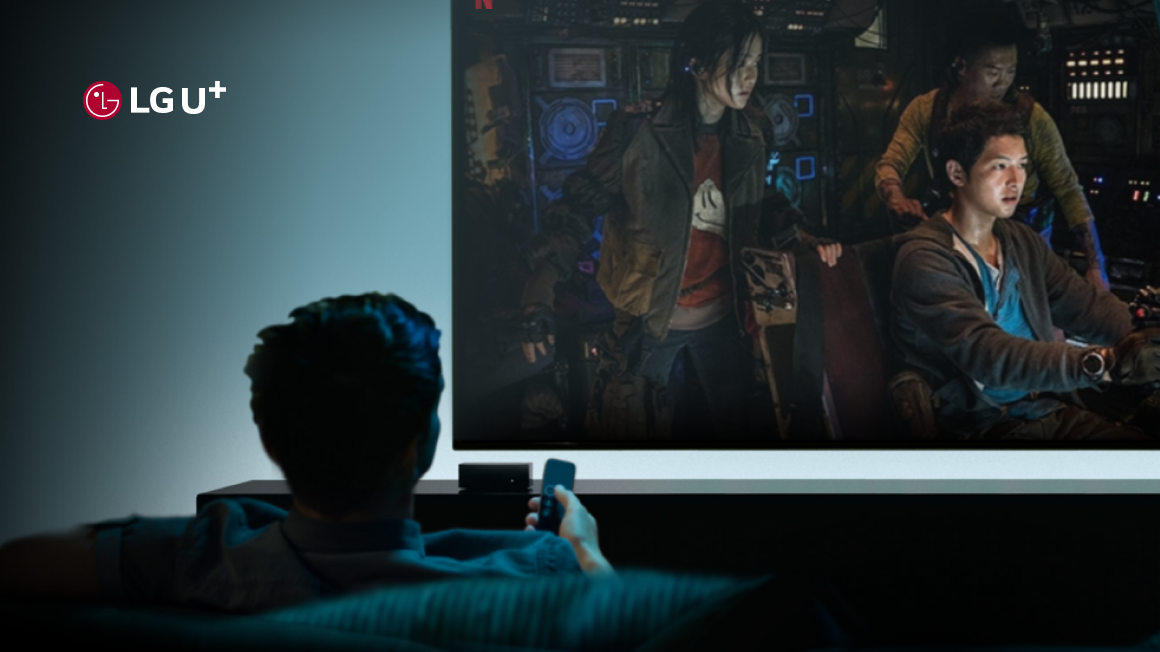
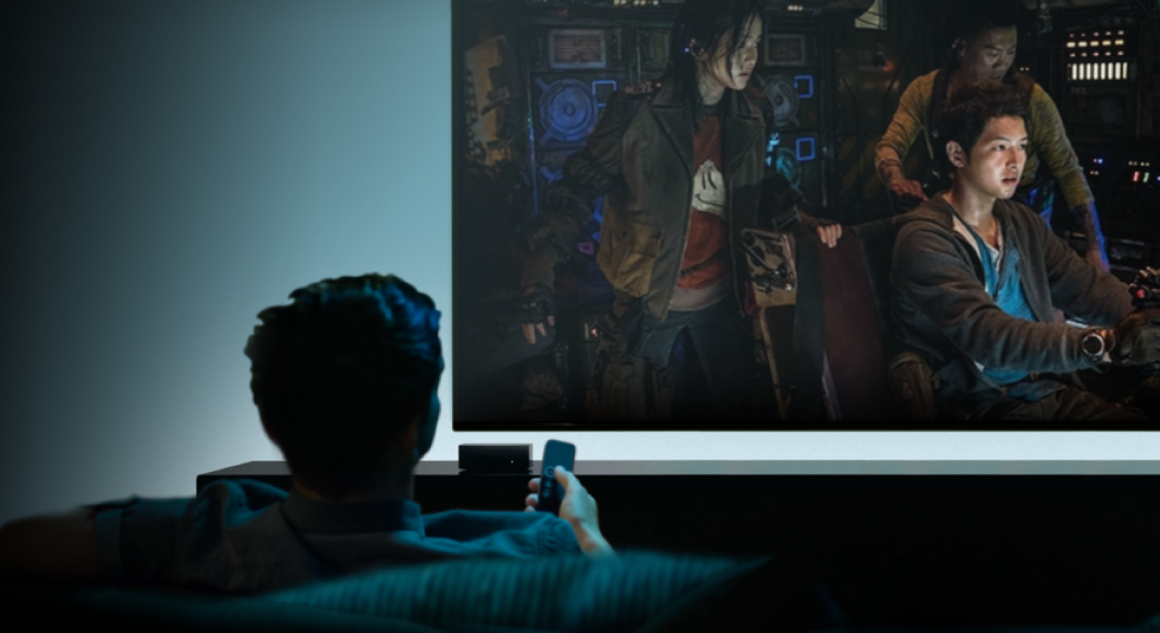
fix header and slider

diff --git a/index.html b/index.html
@@ -83,7 +83,10 @@
                         <div class="single-slider">
                             <a href="#">
                                 <div class="slider-image">
-                                    <img src="./assets/images/home/slide/image1.png" alt="">
+                                    <img class="slide-image-main" src="./assets/images/home/slide/image1.png" alt="">
+                                    <div class="logo">
+                                        <img src="./assets/images/home/slide/logo/logo1.png" alt="">
+                                    </div>
                                 </div>
                                 <div class="slider-text">
                                     <span class="main-text">SK에너지</span>
@@ -94,7 +97,10 @@
                         <div class="single-slider">
                             <a href="#">
                                 <div class="slider-image">
-                                    <img src="./assets/images/home/slide/image2.png" alt="">
+                                    <img class="slide-image-main" src="./assets/images/home/slide/image2.png" alt="">
+                                    <div class="logo">
+                                        <img src="./assets/images/home/slide/logo/logo2.png" alt="">
+                                    </div>
                                 </div>
                                 <div class="slider-text">
                                     <span class="main-text">LG U+</span>
@@ -105,7 +111,10 @@
                         <div class="single-slider">
                             <a href="#">
                                 <div class="slider-image">
-                                    <img src="./assets/images/home/slide/image3.png" alt="">
+                                    <img class="slide-image-main" src="./assets/images/home/slide/image3.png" alt="">
+                                    <div class="logo">
+                                        <img src="./assets/images/home/slide/logo/logo3.png" alt="">
+                                    </div>
                                 </div>
                                 <div class="slider-text">
                                     <span class="main-text">신세계백화점</span>
@@ -116,7 +125,10 @@
                         <div class="single-slider">
                             <a href="#">
                                 <div class="slider-image">
-                                    <img src="./assets/images/home/slide/image4.png" alt="">
+                                    <img class="slide-image-main" src="./assets/images/home/slide/image4.png" alt="">
+                                    <div class="logo">
+                                        <img src="./assets/images/home/slide/logo/logo4.png" alt="">
+                                    </div>
                                 </div>
                                 <div class="slider-text">
                                     <span class="main-text">우아한형제들</span>
@@ -127,7 +139,13 @@
                         <div class="single-slider">
                             <a href="#">
                                 <div class="slider-image">
-                                    <img src="./assets/images/home/slide/image5.png" alt="">
+                                    <img class="slide-image-main" src="./assets/images/home/slide/image5.png" alt="">
+                                    <div class="logo">
+                                        <img src="./assets/images/home/slide/logo/logo5.png" alt="">
+                                    </div>
+                                    <div class="text">
+                                        <img src="./assets/images/home/slide/logo/logo5-1.png" alt="">
+                                    </div>
                                 </div>
                                 <div class="slider-text">
                                     <span class="main-text">현대자동차</span>
@@ -143,47 +161,54 @@
         <div class="brand-wrapper-content">
             <div class="mzd-container">
                 <div class="content-right">
-                    <div id="brand">
+                    <div id="brand-title-wrapper">
                         <div class="brand-title">글로벌 기술 파트너</div>
                         <h3 class="brand-content">메가존.디지털과 함께하는 글로벌 기술력</h3>
                         <h5 class="brand-sub-content">차세대 플랫폼 설계의 필수적 역량을 가진 글로벌 기술 파트너들과 함께 합니다.</h5>
-                        <div class="slider-brand">
-                            <div class="single-brand">
-                                <img src="./assets/images/home/brand/automation.png" alt="">
-                            </div>
-                            <div class="single-brand">
-                                <img src="./assets/images/home/brand/splunk.png" alt="">
-                            </div>
-                            <div class="single-brand">
-                                <img src="./assets/images/home/brand/sumo.png" alt="">
-                            </div>
-                            <div class="single-brand">
-                                <img src="./assets/images/home/brand/googleai.png" alt="">
-                            </div>
-                            <div class="single-brand">
-                                <img src="./assets/images/home/brand/googlebigquery.png" alt="">
-                            </div>
-                            <div class="single-brand">
-                                <img src="./assets/images/home/brand/tableau.png" alt="">
-                            </div>
-                            <div class="single-brand">
-                                <img src="./assets/images/home/brand/aws 1.png" alt="">
-                            </div>
-                            <div class="single-brand">
-                                <img src="./assets/images/home/brand/Akamai 1.png" alt="">
-                            </div>
-                            <div class="single-brand">
-                                <img src="./assets/images/home/brand/googlecloud.png" alt="">
-                            </div>
-                            <div class="single-brand">
-                                <img src="./assets/images/home/brand/gitlab.png" alt="">
-                            </div>
-                            <div class="single-brand">
-                                <img src="./assets/images/home/brand/tencent cloud 1.png" alt="">
-                            </div>
-                            <div class="single-brand">
-                                <img src="./assets/images/home/brand/oracle 1.png" alt="">
-                            </div>
+                    </div>
+                </div>
+            </div>
+        </div>
+
+        <div class="mzd-container full">
+            <div class="content-right">
+                <div id="brand">
+                    <div class="slider-brand">
+                        <div class="single-brand">
+                            <img src="./assets/images/home/brand/automation.png" alt="">
+                        </div>
+                        <div class="single-brand">
+                            <img src="./assets/images/home/brand/splunk.png" alt="">
+                        </div>
+                        <div class="single-brand">
+                            <img src="./assets/images/home/brand/sumo.png" alt="">
+                        </div>
+                        <div class="single-brand">
+                            <img src="./assets/images/home/brand/googleai.png" alt="">
+                        </div>
+                        <div class="single-brand">
+                            <img src="./assets/images/home/brand/googlebigquery.png" alt="">
+                        </div>
+                        <div class="single-brand">
+                            <img src="./assets/images/home/brand/tableau.png" alt="">
+                        </div>
+                        <div class="single-brand">
+                            <img src="./assets/images/home/brand/aws 1.png" alt="">
+                        </div>
+                        <div class="single-brand">
+                            <img src="./assets/images/home/brand/Akamai 1.png" alt="">
+                        </div>
+                        <div class="single-brand">
+                            <img src="./assets/images/home/brand/googlecloud.png" alt="">
+                        </div>
+                        <div class="single-brand">
+                            <img src="./assets/images/home/brand/gitlab.png" alt="">
+                        </div>
+                        <div class="single-brand">
+                            <img src="./assets/images/home/brand/tencent cloud 1.png" alt="">
+                        </div>
+                        <div class="single-brand">
+                            <img src="./assets/images/home/brand/oracle 1.png" alt="">
                         </div>
                     </div>
                 </div>

diff --git a/css/main-page.css b/css/main-page.css
@@ -90,6 +90,11 @@
     position: absolute;
 }
 
+#slider .slider-content .slick-disabled {
+    opacity: 0;
+    visibility: hidden;
+}
+
 #slider .slider-content .prev-arrow {
     top: 50%;
     transform: translateY(-50%) rotateY(180deg);
@@ -160,11 +165,34 @@
 #slider .slider-image {
     width: var(--slider-image-width);
     filter: drop-shadow(20px 30px 20px rgba(0, 0, 0, 0.1));
+    position: relative;
+    overflow: hidden;
 }
 
-#slider .slider-image img {
+#slider .slider-image img.slide-image-main {
     display: block;
     width: 100%;
+    transition: 0.5s;
+    transform: scale(2);
+}
+
+#slider .slick-current .slider-image img.slide-image-main {
+    display: block;
+    width: 100%;
+    transform: scale(1);
+}
+
+#slider .slider-image .logo {
+    position: absolute;
+    top: 80px;
+    left: 80px;
+}
+
+#slider .slider-image .text {
+    position: absolute;
+    top: 50%;
+    left: 50%;
+    transform: translateX(-50%) translateY(-50%);
 }
 
 #slider .slider-text {
@@ -200,10 +228,9 @@
     width: 100%;
     margin-top: 200px;
     padding-top: 130px;
-    padding-bottom: 148px;
 }
 
-#brand {
+#brand-title-wrapper {
     width: 100%;
     display: flex;
     flex-direction: column;
@@ -211,7 +238,7 @@
     justify-content: left;
 }
 
-#brand .brand-title {
+#brand-title-wrapper .brand-title {
     font-weight: var(--font-weigth-bold);
     font-size: 20px;
     line-height: 130%;
@@ -220,20 +247,26 @@
     color: var(--mzd-blue-color);
 }
 
-#brand .brand-content {
+#brand-title-wrapper .brand-content {
     margin-top: 15px;
     font-weight: var(--font-weigth-bold);
     color: var(--mzd-black-color);
 }
 
-#brand .brand-sub-content {
+#brand-title-wrapper .brand-sub-content {
     margin-top: 25px;
     font-weight: var(--font-weigth-regular);
     color: var(--mzd-black-color-3);
 }
 
+#brand {
+    width: 100%;
+    padding-bottom: 148px;
+    background-color: var(--bg-color);
+}
+
 #brand .slider-brand {
-    margin-top: 80px;
+    padding-top: 80px;
 }
 
 #brand .slick-track {

diff --git a/js/script.js b/js/script.js
@@ -7,7 +7,7 @@ const MZDPage = {
     //Main Page Slider
     mainSlider: function () {
         var sliderSettings = {
-            infinite: true,
+            infinite: false,
             speed: 500,
             slidesToShow: 1,
             slidesToScroll: 1,
@@ -43,7 +43,7 @@ const MZDPage = {
             slidesToShow: 1,
             slidesToScroll: 1,
             initialSlide: 1
-        })
+        });
     },
 
     //Scroll to Top
